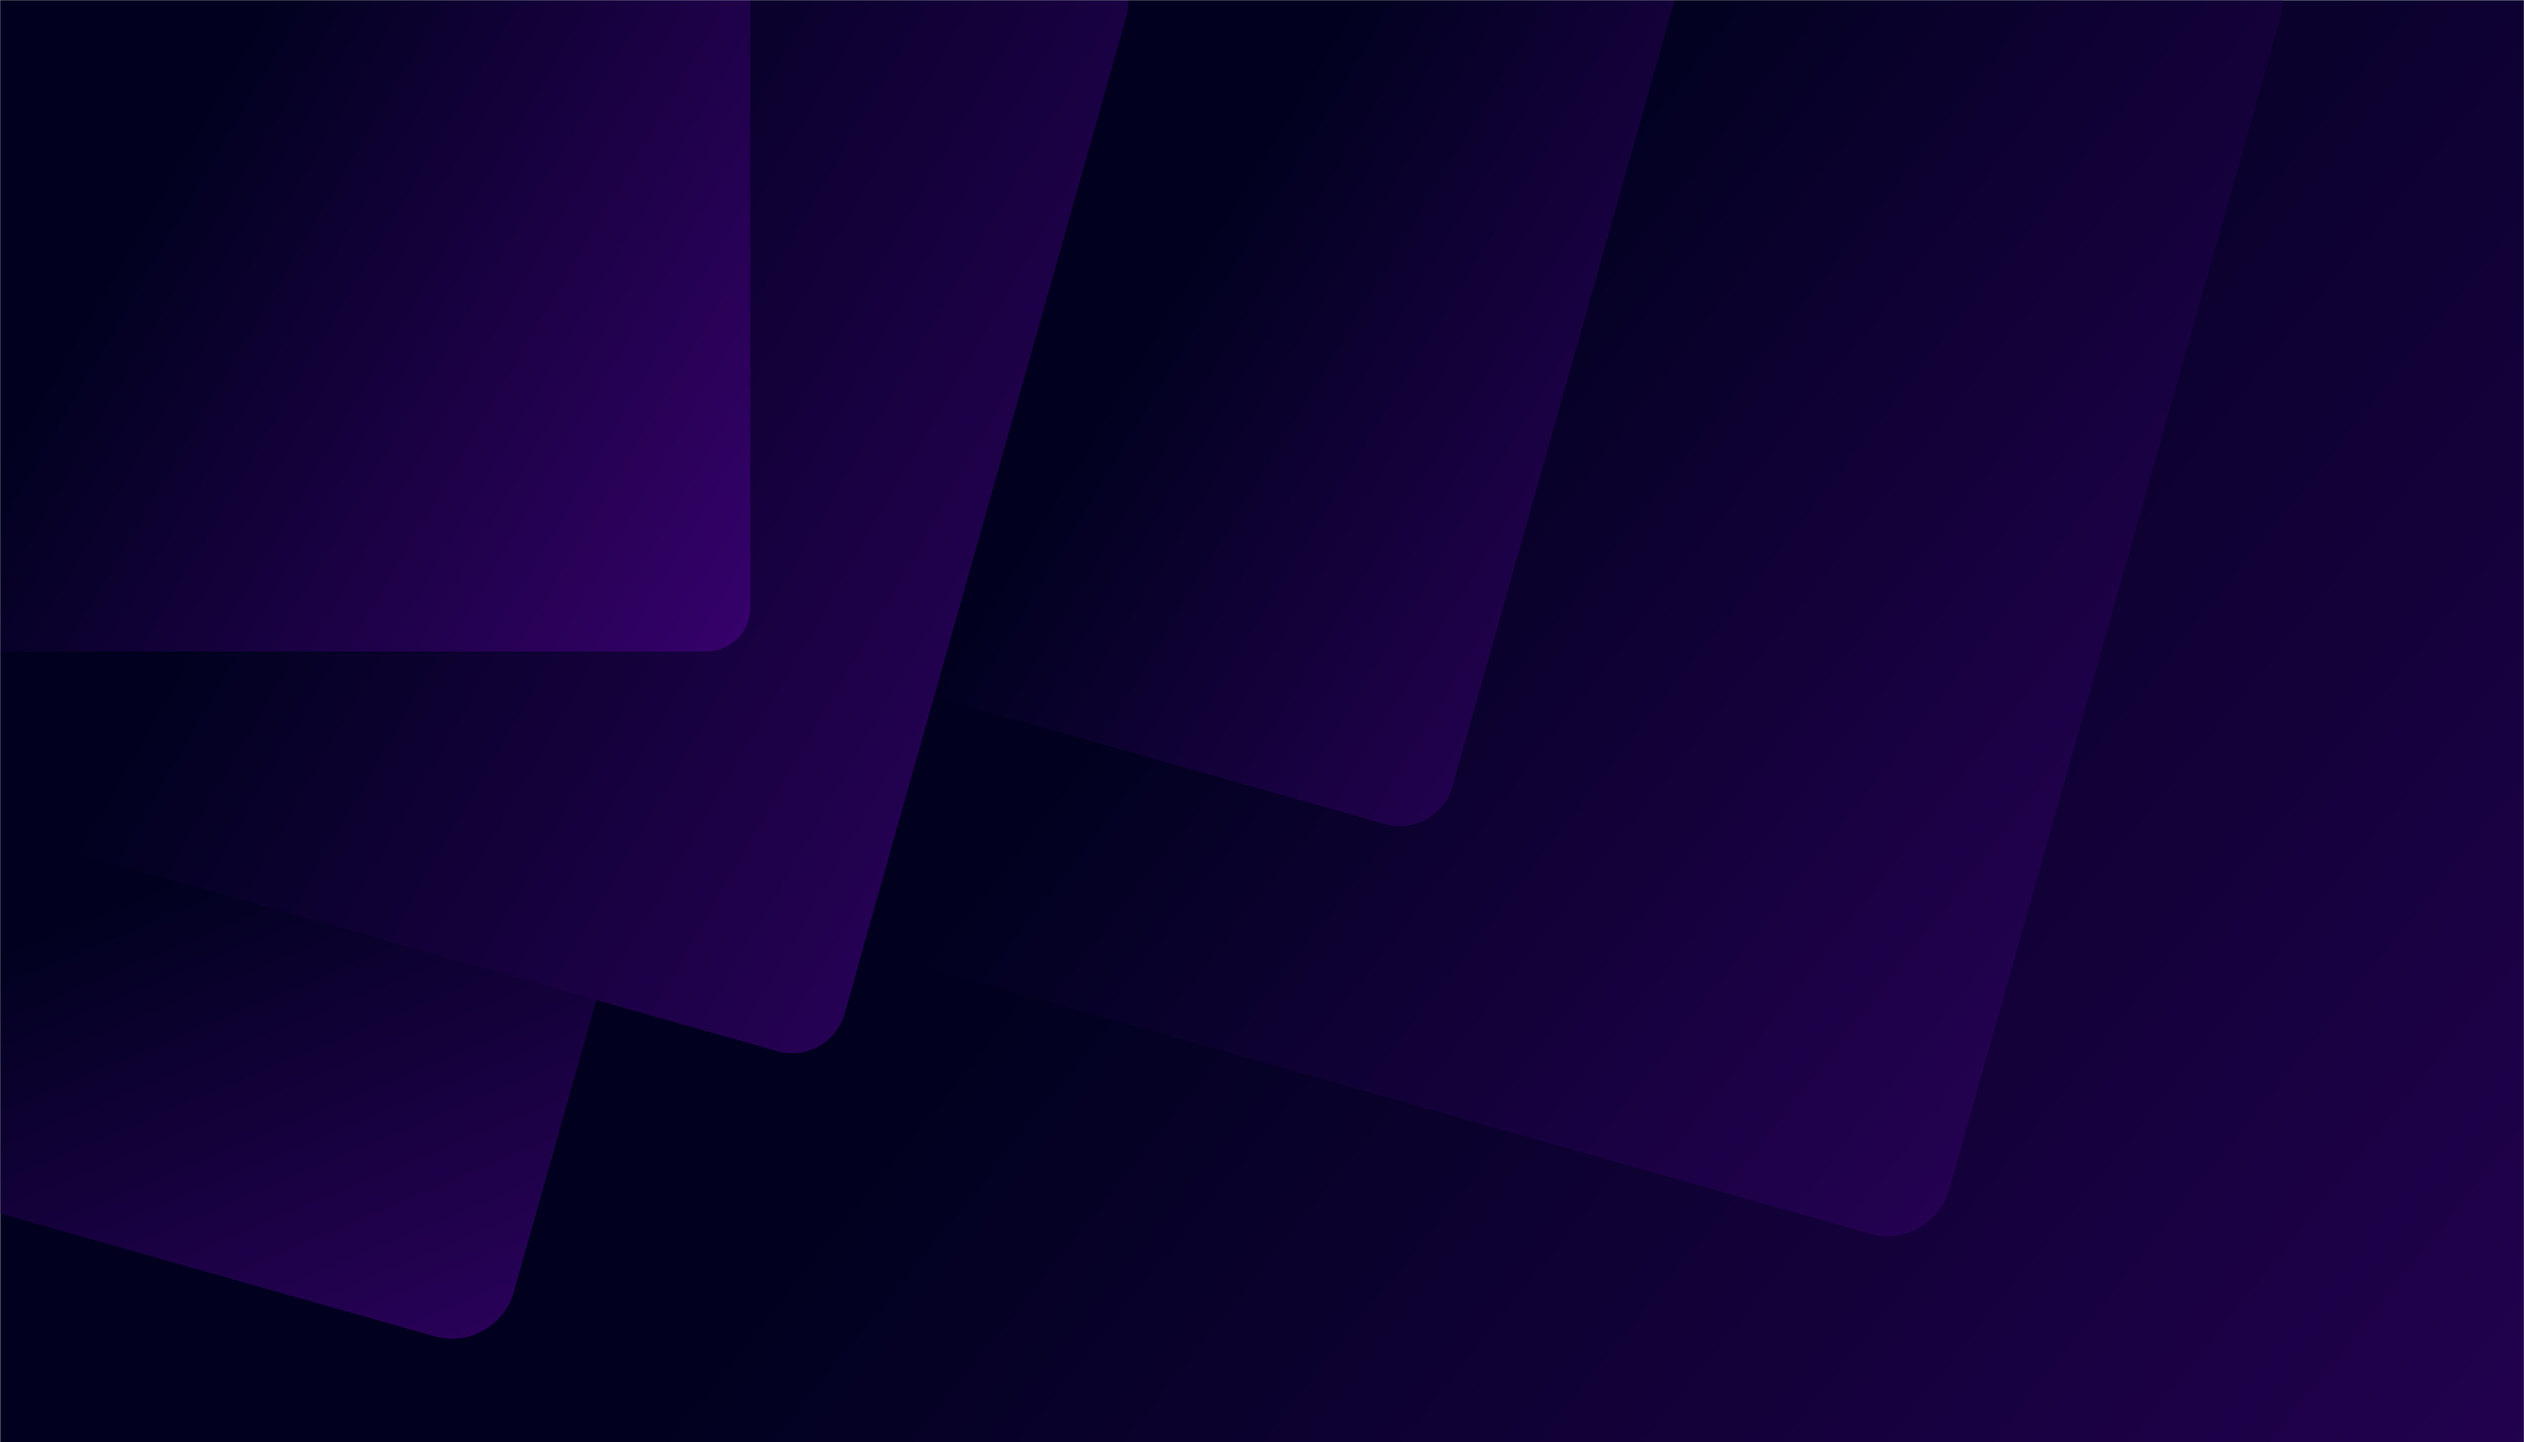
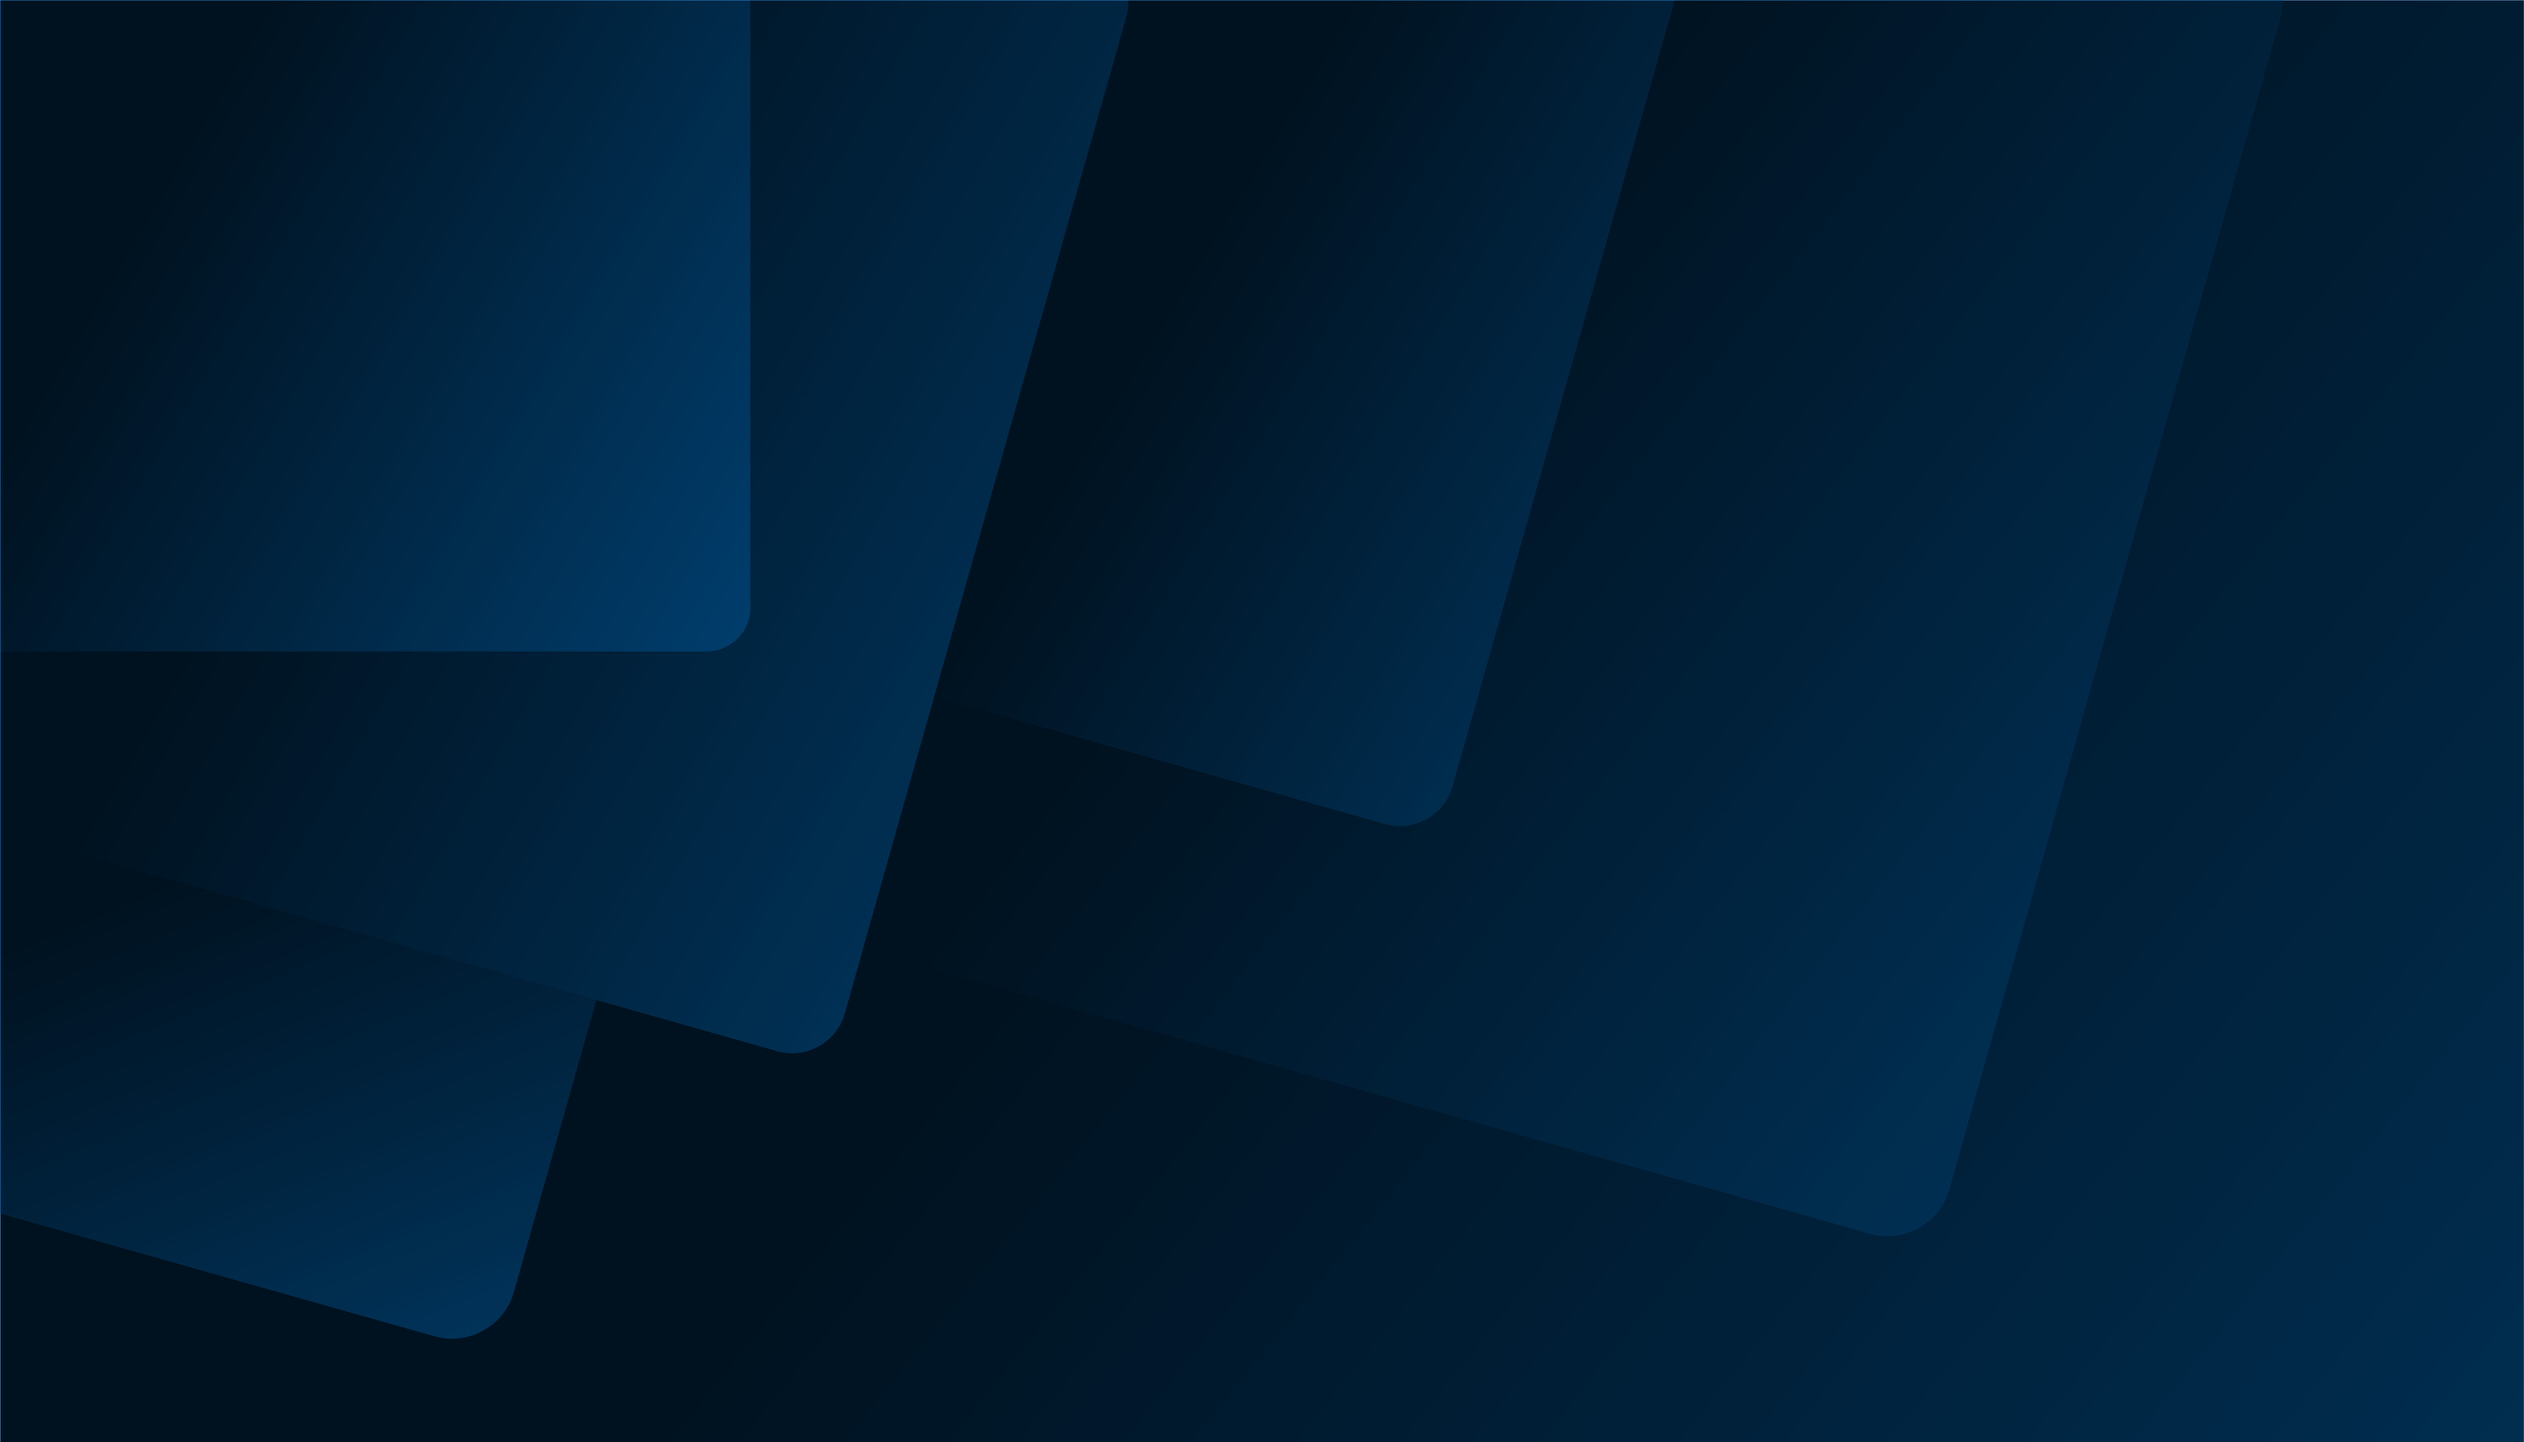
Feat: Quick fix in some components

diff --git a/src/components/LoginForm/index.tsx b/src/components/LoginForm/index.tsx
@@ -92,7 +92,7 @@ export default function LoginForm({ userAuthorities }: LoginFormProps) {
                 const blur = 40;
 
                 (e.currentTarget as HTMLFormElement).style.boxShadow = `
-      ${shadowX}px ${shadowY}px ${blur}px #7f139dde,
+      ${shadowX}px ${shadowY}px ${blur}px #003B69,
       0 8px 32px rgba(0, 0, 0, 0.25)
     `;
             }}

diff --git a/src/components/SalesRegister/index.tsx b/src/components/SalesRegister/index.tsx
@@ -1,0 +1,11 @@
+'use client'
+
+import styles from './page.module.scss'
+
+
+export default function SalesRegister () {
+
+    return (
+        <main></main>
+    )
+}

diff --git a/src/app/hubPage/page.module.scss b/src/app/hubPage/page.module.scss
@@ -22,6 +22,7 @@
   justify-content: center;
   background-color: transparent;
   margin-top: 70px;
+  color: #fff;
 }
 
 .stageTitle2 {
